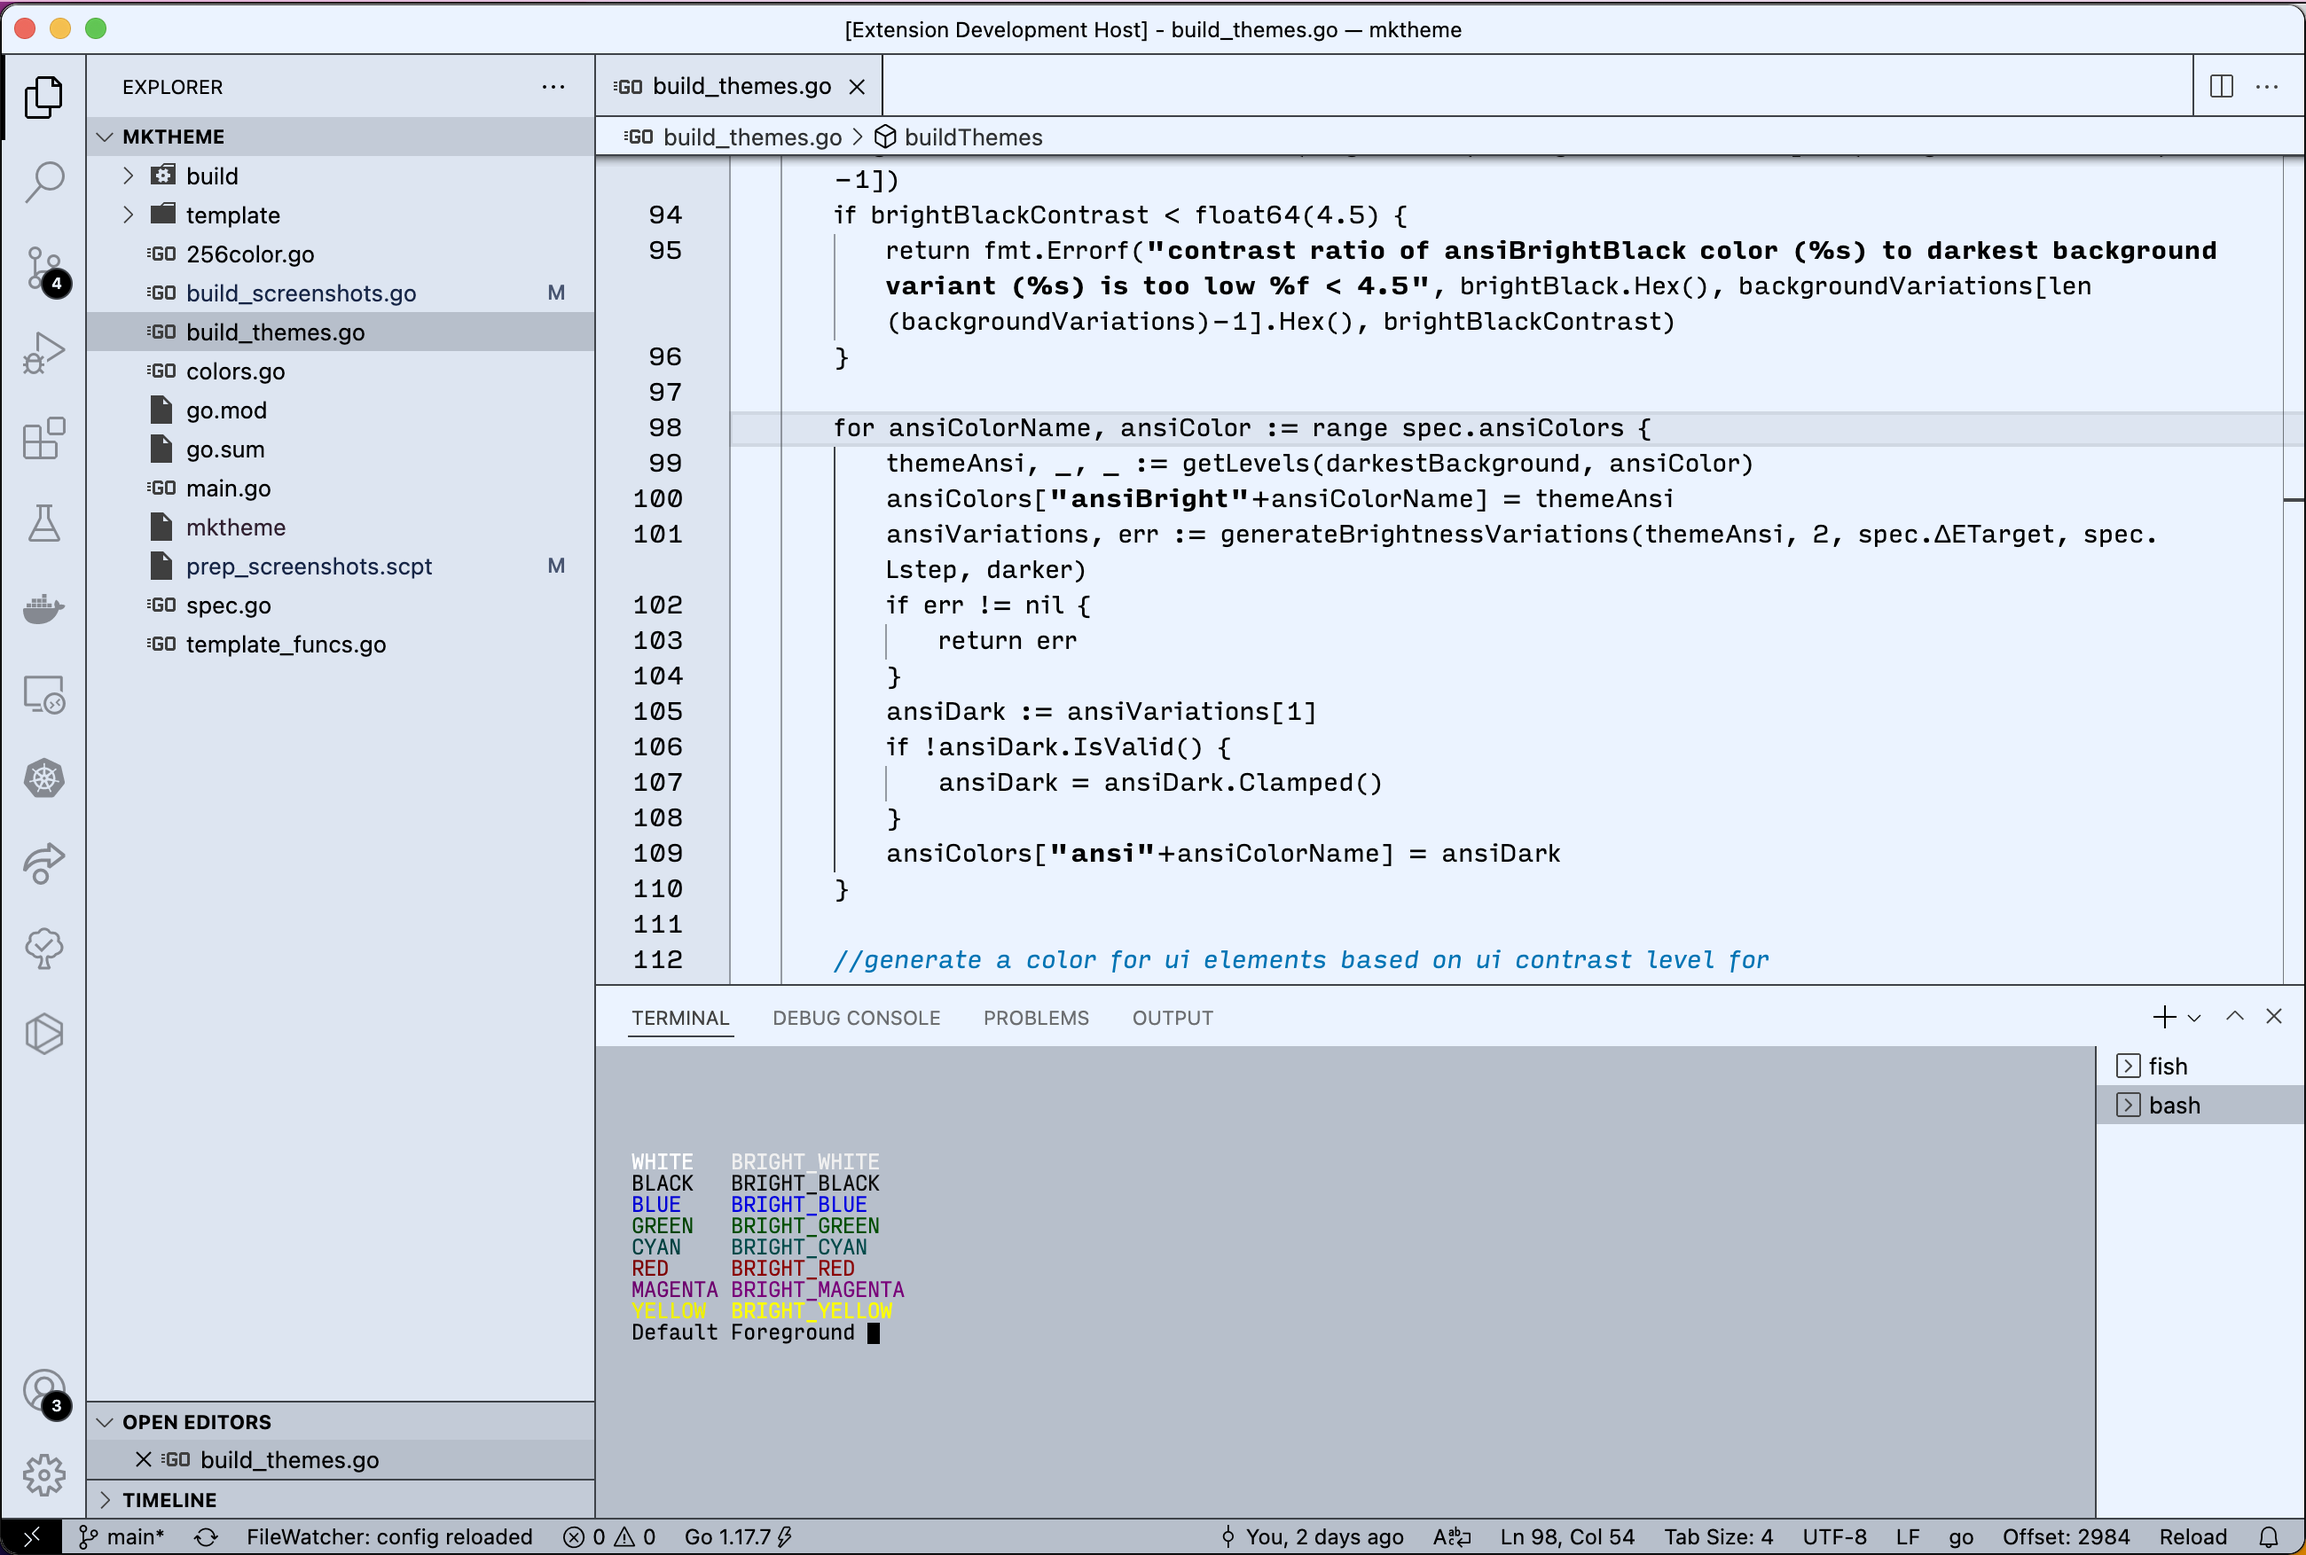
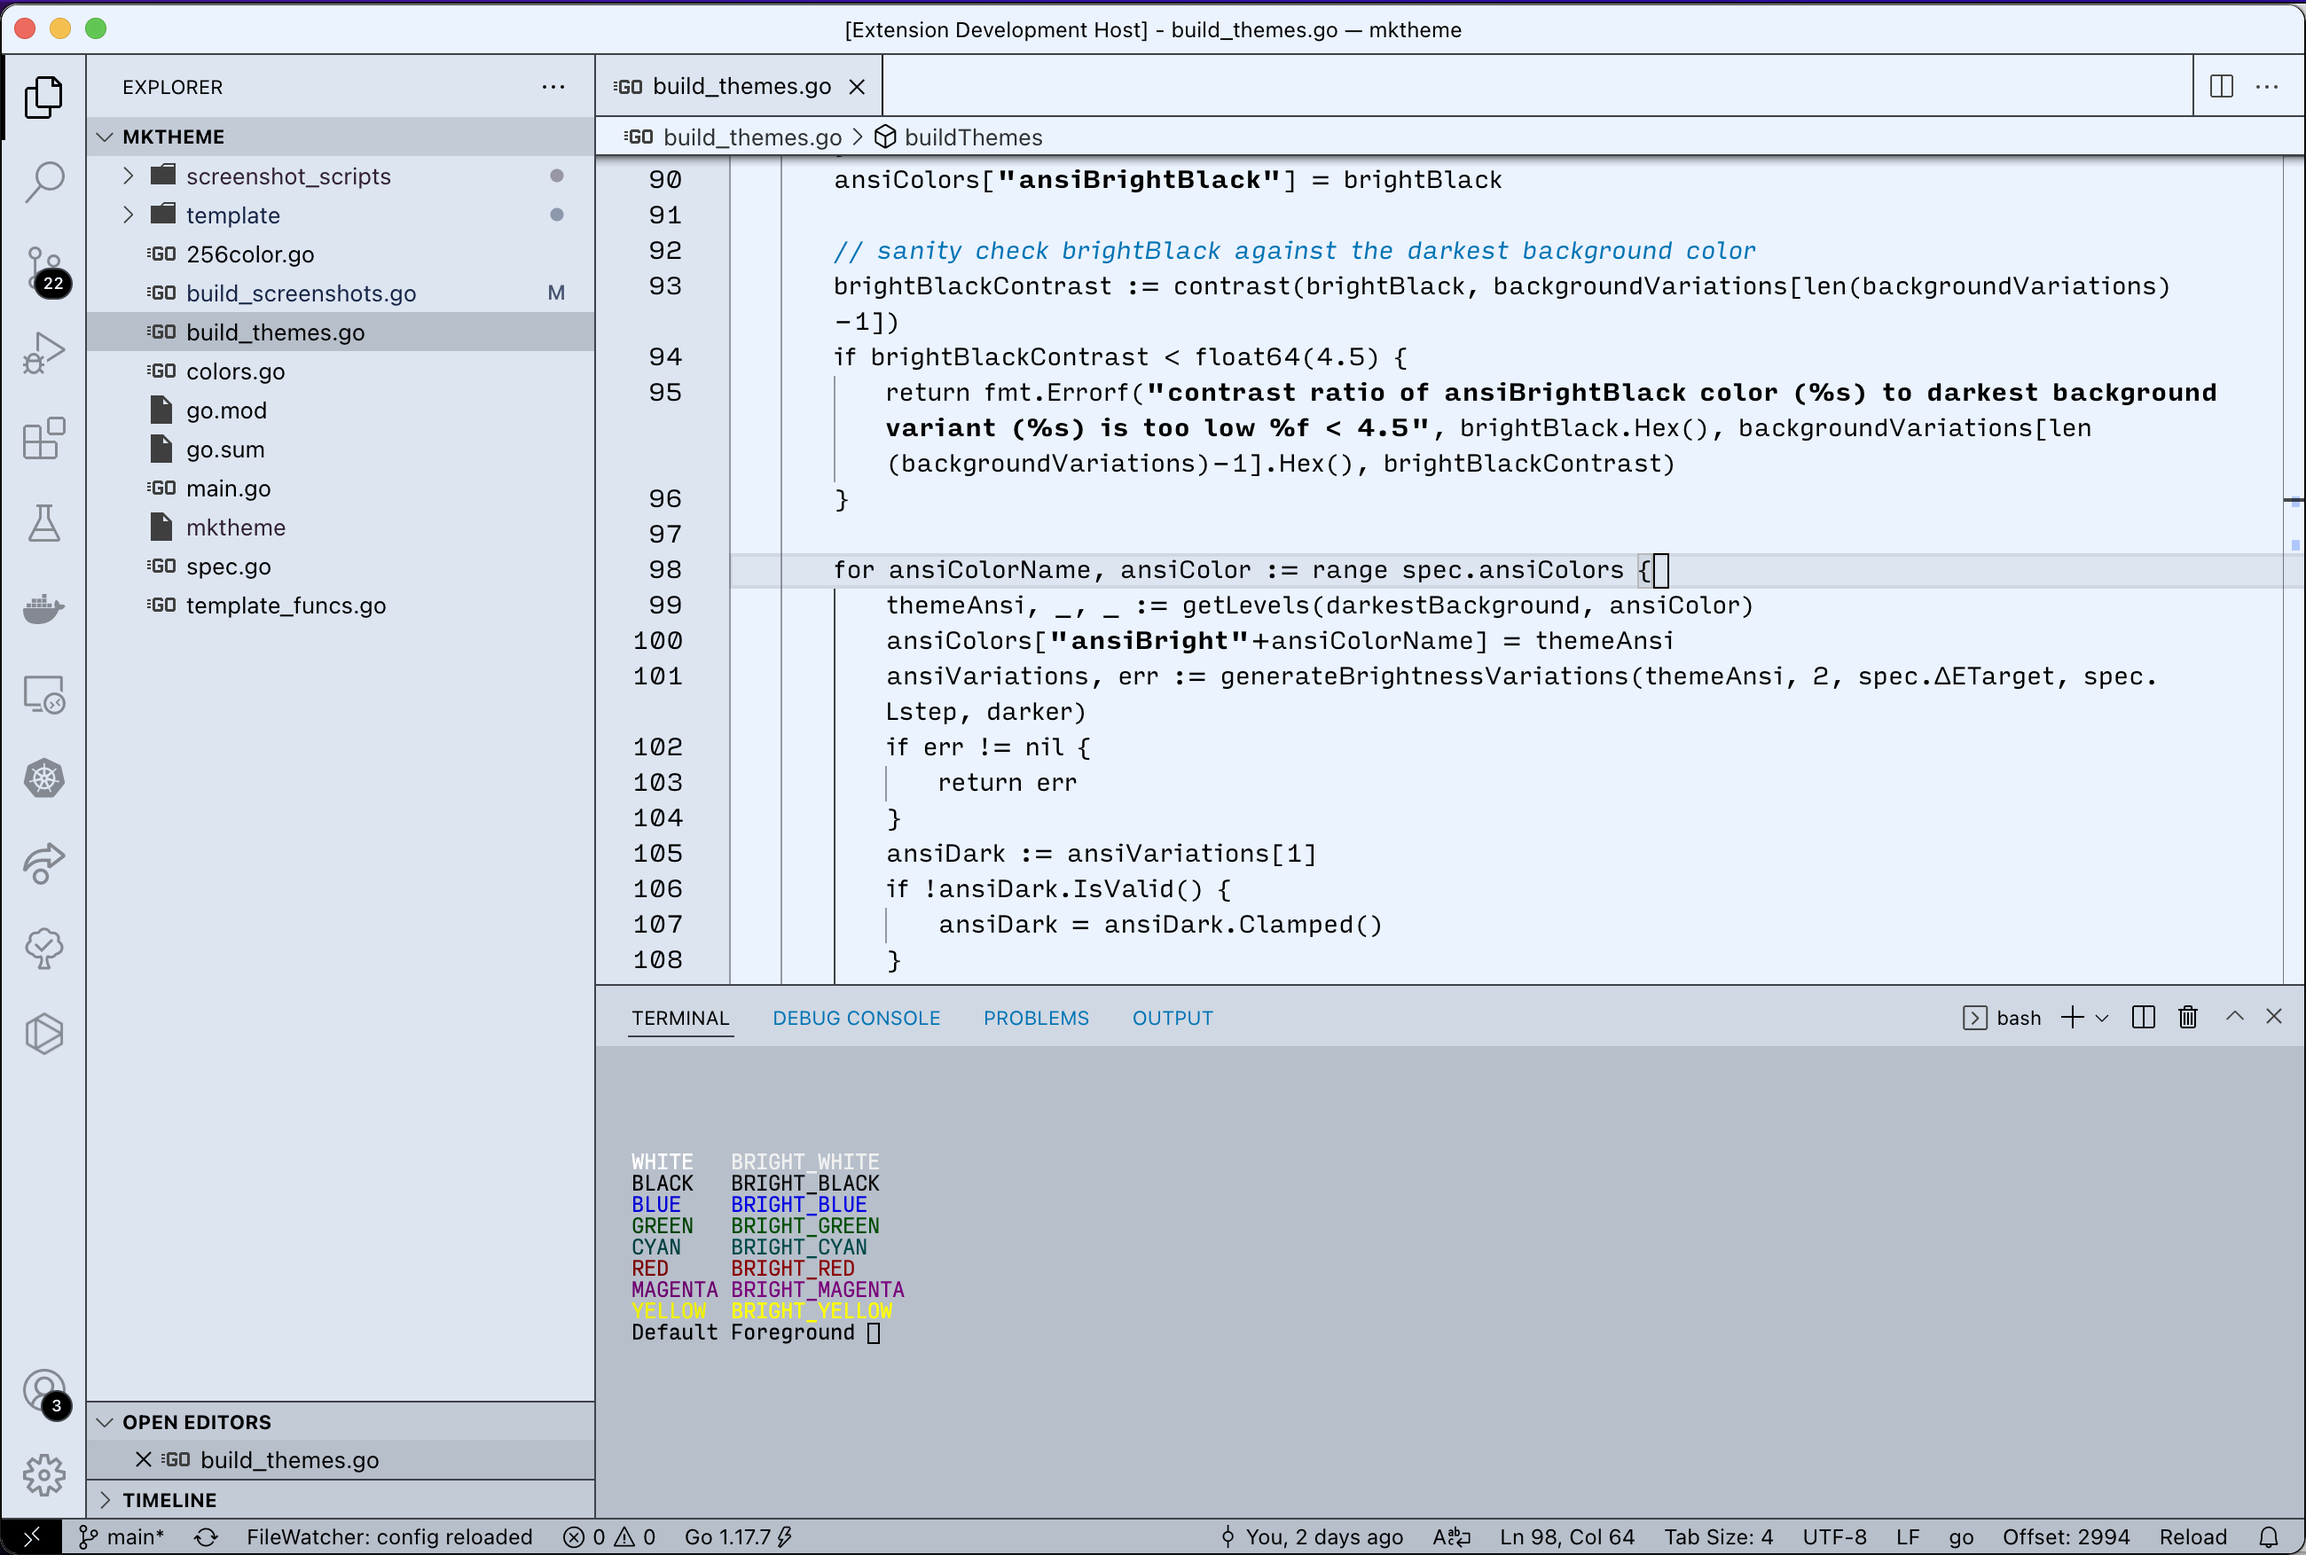
Tighten up screenshot generation

diff --git a/mktheme/build_screenshots.go b/mktheme/build_screenshots.go
@@ -63,7 +63,7 @@ func (c *cmdRunner) Err() error {
 }
 
 func buildScreenshots(spec *spec, outputPath string) error {
-	tmpl, err := template.New("").ParseFiles(`template/change_theme.scpt.tmpl`)
+	tmpl, err := template.New("").ParseFiles(`screenshot_scripts/change_theme.scpt.tmpl`)
 	if err != nil {
 		return err
 	}
@@ -81,7 +81,7 @@ func buildScreenshots(spec *spec, outputPath string) error {
 	time.Sleep(5 * time.Second)
 	themeLog("prepping for screenshots...")
 	c := newCmdRunner(2 * time.Second)
-	c.run("osascript", "prep_screenshots.scpt")
+	c.run("osascript", "screenshot_scripts/prep_screenshots.scpt")
 	themeLog("generating screenshots...")
 	for i, s := range themescripts {
 		c.runWithInput(s, "osascript")
@@ -89,8 +89,8 @@ func buildScreenshots(spec *spec, outputPath string) error {
 		c.runWithInput(s, "osascript")
 		screenshotFilename := "img/Clarion-" + spec.themeBases[i] + ".jpg"
 		c.run("screencapture", "-x", "-R0,23,1300,900", filepath.Join(outputPath, screenshotFilename))
-
 	}
+	c.run("osascript", "screenshot_scripts/close_window.scpt")
 	if c.Err() != nil {
 		return c.Err()
 	}
